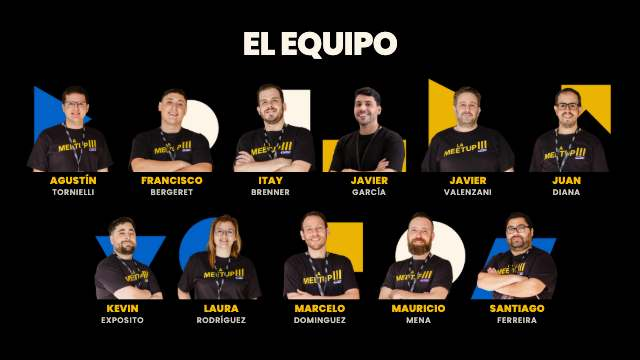
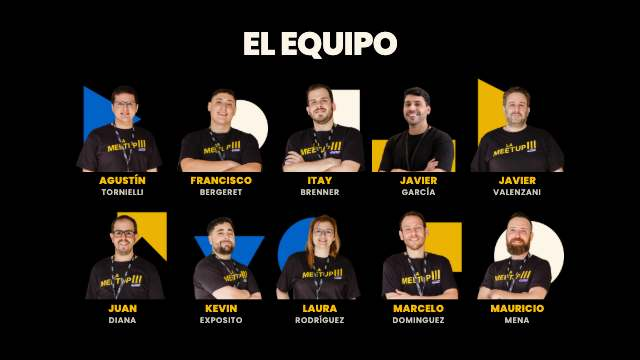
fix(conf): Santiago Ferreira is no longer on the OWU CONF 2026 team
His TEAM_2026 entry and 2026 portrait are gone, so /conf, the stage's
Equipo scene and the team wall no longer show him. The wall now sits
five to a row, 5 + 5. His past La Meetup staff entries stay.

Changed region(s): [[0.0312, 0.2139, 0.9688, 0.55], [0.125, 0.5806, 0.9062, 0.9167]]

diff --git a/src/components/OwyStage/scenes/more.tsx b/src/components/OwyStage/scenes/more.tsx
@@ -538,8 +538,8 @@ export function TeamWall({ params }: SceneProps<"team-wall">) {
           {params.title}
         </Rise>
       </div>
-      {/* Six to a row: the eleven of 2026 sit 6 + 5 */}
-      <div className="absolute inset-x-[70px] top-[236px] flex flex-wrap justify-center gap-x-[16px] gap-y-[28px]">
+      {/* Five to a row (1480 px fits five 280 px tiles, not six): the ten of 2026 sit 5 + 5 */}
+      <div className="absolute inset-x-[220px] top-[236px] flex flex-wrap justify-center gap-x-[16px] gap-y-[28px]">
         {TEAM_2026.map((member, i) => (
           <m.div
             key={member.picture}

diff --git a/src/app/conf/components/Team.tsx b/src/app/conf/components/Team.tsx
@@ -87,13 +87,6 @@ export const TEAM_2026: TeamMember[] = [
     jobTitle: "Software Developer",
     linkedin: "https://www.linkedin.com/in/mauricio-mena-7bb13271/",
   },
-  {
-    firstname: "Santiago",
-    lastname: "Ferreira",
-    picture: "/images/conf/staff/santiago-ferreira.webp",
-    jobTitle: "Software Developer",
-    linkedin: "https://www.linkedin.com/in/santiagoferreira/",
-  },
 ];
 
 type PersonCardProps = {
